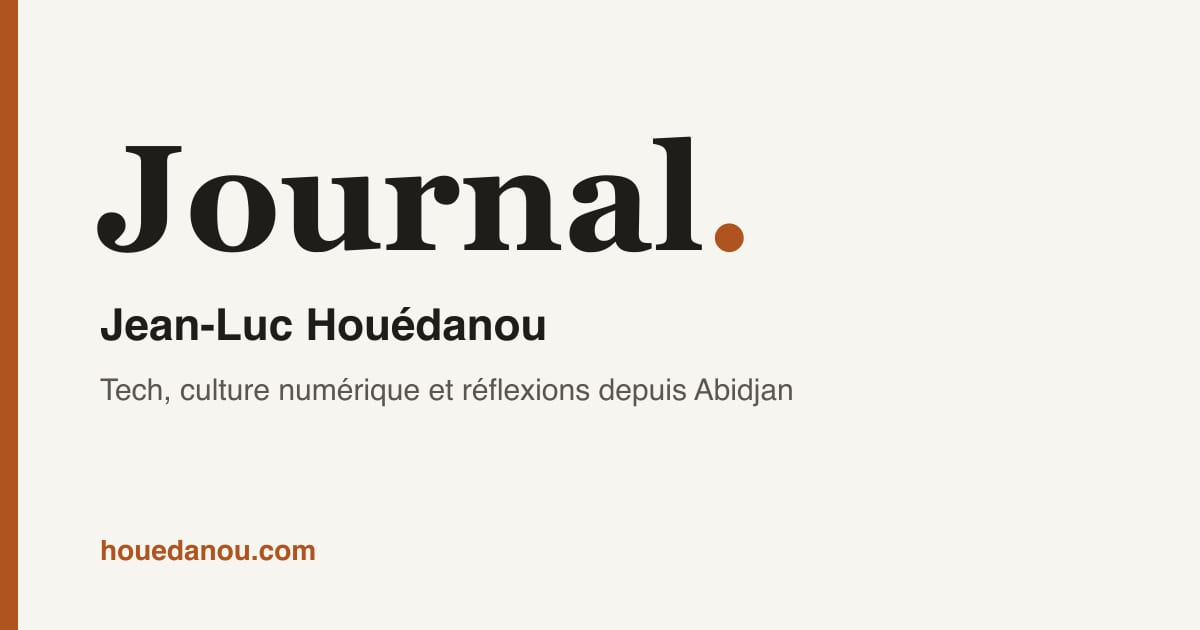
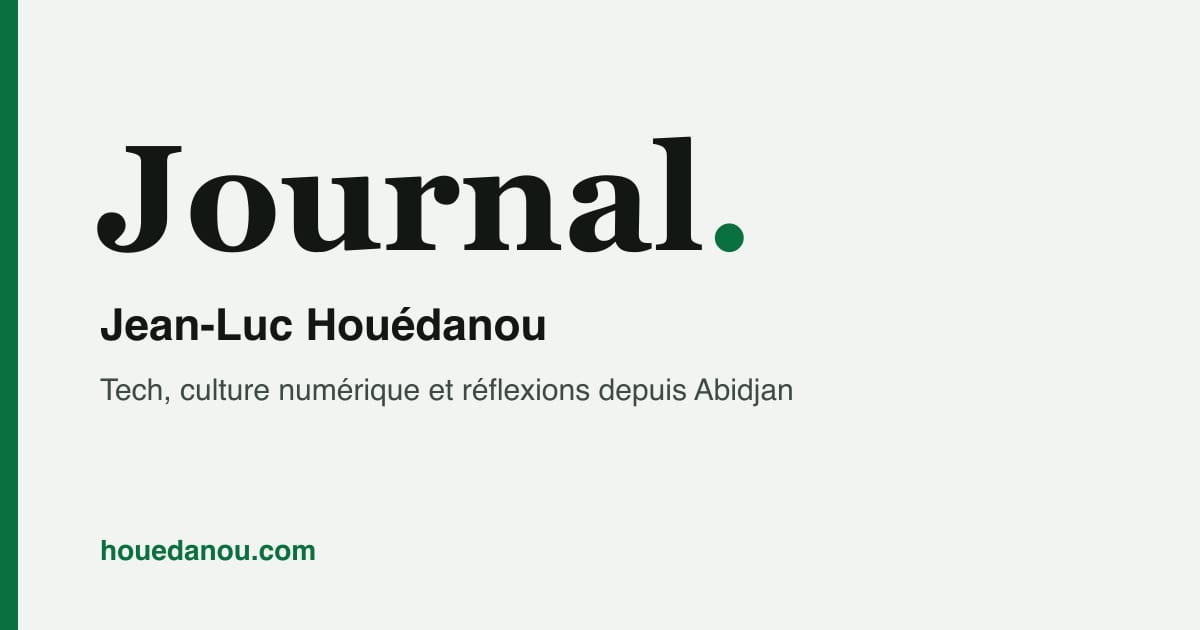
Palette « Phosphore » : des couleurs moins Claude
Fini le papier crème et l'accent terracotta. Papier gris-vert, encre presque
noire, accent vert (#0a7040 en clair, vert phosphore #3ddc84 en sombre),
clin d'œil au thème Matrix d'Omarchy. Seuls les jetons de custom.scss
changent ; tous les textes passent 4,5:1 (le gris discret et l'accent
actuels étaient à 3,8 et 4,0). theme-color, barre de chargement et carte
OG par défaut suivent la palette.

diff --git a/assets/custom.scss b/assets/custom.scss
@@ -68,38 +68,38 @@ th:not([align]) {
 :root,
 html:not([data-theme]),
 html[data-theme="light"] {
-  /* Palette inspirée de remarkable.com : papier chaud, encre charbon,
-     accent terracotta emprunté à leur imagerie. */
-  --bg-primary: #e9e5da;
-  --bg-secondary: #dfdacc;
-  --bg-card: #f4f1e9;
-  --bg-elevated: #fbf9f3;
-  --bg-glass: rgba(233, 229, 218, 0.88);
+  /* Palette « Phosphore » : papier gris-vert, encre presque noire, accent
+     vert emprunté à la pluie de Matrix. Plus de crème ni de terracotta. */
+  --bg-primary: #f1f4f1;
+  --bg-secondary: #e6ebe7;
+  --bg-card: #f9fbf9;
+  --bg-elevated: #ffffff;
+  --bg-glass: rgba(241, 244, 241, 0.88);
 
-  --text-primary: #1c1b17;
-  --text-secondary: #4f4c43;
-  --text-muted: #777263;
-  --text-faded: #a29c8b;
+  --text-primary: #121714;
+  --text-secondary: #3f4a43;
+  --text-muted: #5f6b63;
+  --text-faded: #94a098;
 
-  --border-color: #d3ccbc;
-  --border-strong: #b3ab97;
+  --border-color: #d5ddd7;
+  --border-strong: #aab6ad;
 
-  --accent: #b0541f;
-  --accent-hover: #8e3f13;
-  --accent-contrast: #faf7f0;
-  --accent-soft: rgba(176, 84, 31, 0.11);
-  --accent-violet: #6c6759;
-  --accent-magenta: #6b5f52;
-  --accent-amber: #7a6c4c;
+  --accent: #0a7040;
+  --accent-hover: #075530;
+  --accent-contrast: #f4faf6;
+  --accent-soft: rgba(10, 112, 64, 0.1);
+  --accent-violet: #4f5d55;
+  --accent-magenta: #4a5a52;
+  --accent-amber: #56604a;
 
-  --code-bg: #e2ddce;
-  --blockquote-bg: #efebe0;
+  --code-bg: #e4eae5;
+  --blockquote-bg: #eaefeb;
 
-  --card-shadow: 0 24px 54px -38px rgba(43, 39, 30, 0.36);
-  --card-shadow-hover: 0 28px 64px -40px rgba(43, 39, 30, 0.44), 0 0 0 1px rgba(176, 84, 31, 0.16);
+  --card-shadow: 0 24px 54px -38px rgba(18, 32, 24, 0.3);
+  --card-shadow-hover: 0 28px 64px -40px rgba(18, 32, 24, 0.4), 0 0 0 1px rgba(10, 112, 64, 0.18);
 
-  --grid-line: rgba(30, 27, 20, 0.055);
-  --overlay-bg: rgba(233, 229, 218, 0.92);
+  --grid-line: rgba(18, 40, 26, 0.05);
+  --overlay-bg: rgba(241, 244, 241, 0.92);
 
   color-scheme: light;
 }
@@ -107,36 +107,37 @@ html[data-theme="light"] {
 /* Jetons du thème sombre, partagés entre le choix explicite (data-theme, posé
    par app.vue) et le repli sans JavaScript, qui suit le réglage système. */
 @mixin dark-theme-tokens {
-  --bg-primary: #171512;
-  --bg-secondary: #1d1a16;
-  --bg-card: #221f1a;
-  --bg-elevated: #2a2620;
-  --bg-glass: rgba(23, 21, 18, 0.84);
+  /* Mode sombre façon terminal : noir à peine vert, accent vert phosphore. */
+  --bg-primary: #0b0f0c;
+  --bg-secondary: #0f1410;
+  --bg-card: #121813;
+  --bg-elevated: #18201a;
+  --bg-glass: rgba(11, 15, 12, 0.84);
 
-  --text-primary: #f0ede4;
-  --text-secondary: #c9c3b4;
-  --text-muted: #918a79;
-  --text-faded: #615c4f;
+  --text-primary: #dfe9e1;
+  --text-secondary: #a9b8ad;
+  --text-muted: #7f8f84;
+  --text-faded: #56635a;
 
-  --border-color: #383327;
-  --border-strong: #514a3a;
+  --border-color: #223027;
+  --border-strong: #34463a;
 
-  --accent: #d98e5c;
-  --accent-hover: #e8aa7f;
-  --accent-contrast: #171512;
-  --accent-soft: rgba(217, 142, 92, 0.14);
-  --accent-violet: #aca698;
-  --accent-magenta: #b1a690;
-  --accent-amber: #bcae86;
+  --accent: #3ddc84;
+  --accent-hover: #7ef0b0;
+  --accent-contrast: #0b0f0c;
+  --accent-soft: rgba(61, 220, 132, 0.12);
+  --accent-violet: #9fb0a4;
+  --accent-magenta: #a3b3a0;
+  --accent-amber: #b5bf9a;
 
-  --code-bg: #1b1814;
-  --blockquote-bg: #1d1a16;
+  --code-bg: #0e140f;
+  --blockquote-bg: #101611;
 
-  --card-shadow: 0 24px 60px -34px rgba(0, 0, 0, 0.58);
-  --card-shadow-hover: 0 30px 72px -42px rgba(0, 0, 0, 0.72), 0 0 0 1px rgba(217, 142, 92, 0.18);
+  --card-shadow: 0 24px 60px -34px rgba(0, 0, 0, 0.6);
+  --card-shadow-hover: 0 30px 72px -42px rgba(0, 0, 0, 0.72), 0 0 0 1px rgba(61, 220, 132, 0.2);
 
-  --grid-line: rgba(255, 255, 255, 0.045);
-  --overlay-bg: rgba(23, 21, 18, 0.92);
+  --grid-line: rgba(120, 255, 170, 0.035);
+  --overlay-bg: rgba(11, 15, 12, 0.92);
 
   color-scheme: dark;
 }

diff --git a/app.vue b/app.vue
@@ -1,6 +1,6 @@
 <template>
   <NuxtLayout>
-    <NuxtLoadingIndicator color="#b0541f" :height="2" />
+    <NuxtLoadingIndicator color="var(--accent)" :height="2" />
 
     <a href="#main-content" class="skip-link">{{ $t('skipToContent') }}</a>
 
@@ -284,8 +284,8 @@ useHead(() => ({
   },
   meta: [
     // Couleur de la barre du navigateur, alignée sur --bg-primary de chaque thème.
-    { key: 'theme-color-light', name: 'theme-color', media: '(prefers-color-scheme: light)', content: '#e9e5da' },
-    { key: 'theme-color-dark', name: 'theme-color', media: '(prefers-color-scheme: dark)', content: '#171512' },
+    { key: 'theme-color-light', name: 'theme-color', media: '(prefers-color-scheme: light)', content: '#f1f4f1' },
+    { key: 'theme-color-dark', name: 'theme-color', media: '(prefers-color-scheme: dark)', content: '#0b0f0c' },
   ],
   link: [
     {
